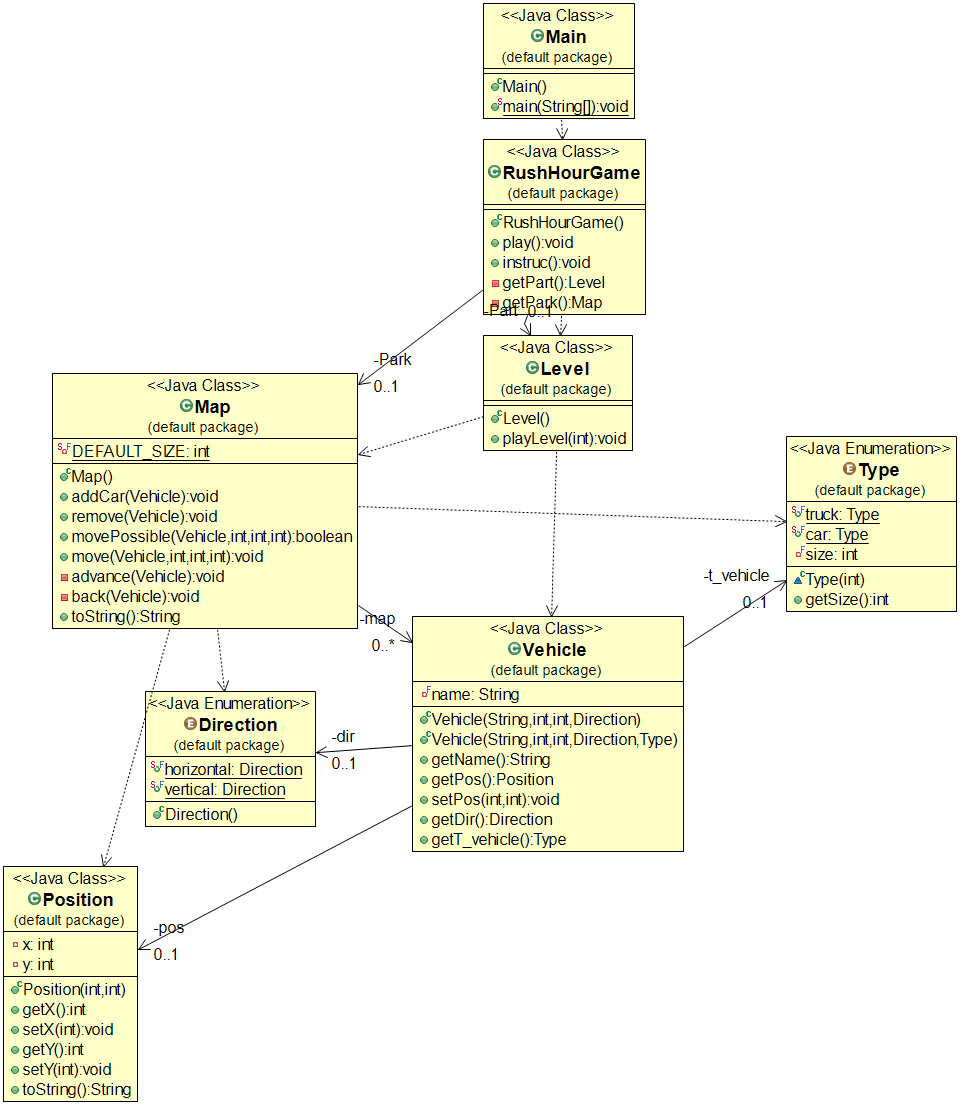
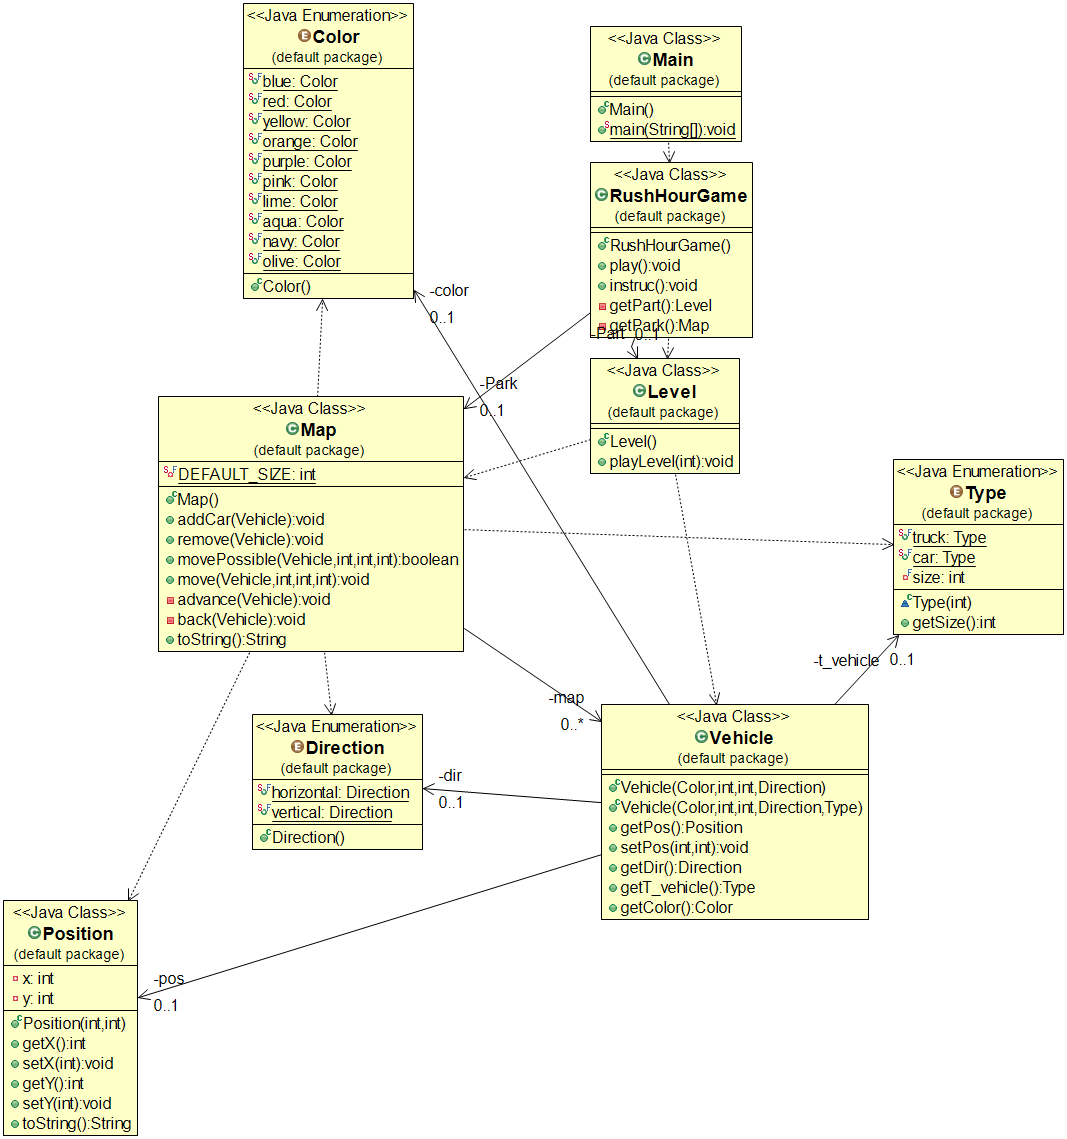
add enumeration color for replace name

diff --git a/src/Vehicle.java b/src/Vehicle.java
@@ -11,7 +11,7 @@
 public class Vehicle 
 {
 	
-	//TODO(done) use an enumeration for constants
+	//TODO (done) use an enumeration for constants
 		
 	/**
 	 *	the type of the vehicle 
@@ -31,53 +31,44 @@ public class Vehicle
 	 */
 	private final Direction dir;
 	
-	//TODO u shlud better store color instead of name (+enum)
+	//TODO (done) u shlud better store color instead of name (+enum)
 	/**
-	 * name is a type of vehicle followed by color
+	 * it's a color of car
 	 */
-	private final String name;
+	private final Color color;
 	
 	
 	//TODO (done) javadoc (finish it)
 	/**
 	 * constructor with parameter for make car
-	 * @param name 
+	 * @param color of vehicle 
 	 * @param x is the position of the car on the abscissa axis
 	 * @param y is the position of the car on the ordonate axis
 	 * @param dir is the direction in the map
 	 */
-	public Vehicle(String name,int x, int y,Direction dir)
+	public Vehicle(Color color,int x, int y,Direction dir)
 	{
 		this.dir=dir;
 		this.setPos(x,y);
 		this.t_vehicle=Type.car;
-		this.name=name;
+		this.color=color;
 	}
 	
 	//TODO (done) javadoc (finish it)
 	/**
 	 * constructor with parameter for make all vehicle
-	 * @param name 
+	 * @param color of vehicle 
 	 * @param x is the position of the car on the abscissa axis
 	 * @param y is the position of the car on the ordinate axis
 	 * @param dir is the direction in the map
 	 * @param theVehicle is a type of the vehicle
 	 */
-	public Vehicle(String name,int x, int y,Direction dir,Type theVehicle)
+	public Vehicle(Color color,int x, int y,Direction dir,Type theVehicle)
 	{
 		this.dir=dir;
 		this.setPos(x,y);
 		this.t_vehicle=theVehicle;
-		this.name=name;
-	}
-	
-	
-	
-	/**
-	 * @return name of vehicle
-	 */
-	public String getName() {
-		return this.name;
+		this.color=color;
 	}
 
 	/**
@@ -102,11 +93,17 @@ public class Vehicle
 		return this.dir;
 	}
 
-
 /**
  * @return the type of the vehicle
  */
 public Type getT_vehicle() {
 	return this.t_vehicle;
+}
+/**
+ * 
+ * @return color of vehicle
+ */
+public Color getColor() {
+	return this.color;
 }
 }

diff --git a/src/Color.java b/src/Color.java
@@ -1,0 +1,47 @@
+/**
+ * 
+ * @author lefeb
+ *
+ */
+public enum Color {
+	/**
+	 * 
+	 */
+	blue,
+	/**
+	 * 
+	 */
+	red,
+	/**
+	 * 
+	 */
+	yellow,
+	/**
+	 * 
+	 */
+	orange,
+	/**
+	 * 
+	 */
+	purple,
+	/**
+	 * 
+	 */
+	pink,
+	/**
+	 * 
+	 */
+	lime,
+	/**
+	 * 
+	 */
+	aqua,
+	/**
+	 * 
+	 */
+	navy,
+	/**
+	 * 
+	 */
+	olive;
+}

diff --git a/src/Map.java b/src/Map.java
@@ -134,7 +134,7 @@ private void back(Vehicle car) {
 						retour+="";
 					else retour+=("    |");
 				}else {
-					retour+=(this.map[i][u].getName()+"|");
+					retour+=(this.map[i][u].getColor()+"|");
 					}
 			}
 			retour+="\n";
